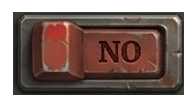
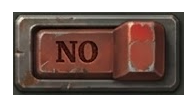
Intercambios REALES: las cartas se mueven, con deposito y caducidad v3.9
Correccion del diseno de compartir cartas (antes se daban copias):
- La carta que envias SALE de tu coleccion al generar el codigo y queda
  EN DEPOSITO (nuevo libro Save.cardMinus descuenta de availableCopies;
  addSharedCard cancela primero esa deuda). Al aceptar un intercambio,
  tu carta elegida sale y la del amigo entra; su codigo de respuesta te
  entrega la suya. Nadie puede robar: tu eliges que mandas y aceptas.
- CADUCIDAD 6 HORAS: los codigos vencidos se rechazan al leerlos; los
  intercambios en deposito vencidos se cancelan SOLOS y la carta vuelve
  (aviso en pantalla). Los regalos vencidos se recuperan a mano con
  confirmacion (aviso anti-duplicado si el amigo ya acepto).
- Panel "En deposito" en la pantalla de compartir: que cartas tuyas
  estan fuera y cuanto les queda para caducar.
- Solo se pueden enviar cartas con copias LIBRES (availableCopies > 0).
- Formato de codigo v2 (ENFCARTA2): los codigos antiguos ya no valen.

Android: versionCode 31 / versionName 3.9; etiqueta v3.9.

diff --git a/js/menu.js b/js/menu.js
@@ -27,7 +27,8 @@ const Save = {
   story: { defeated: [], revealed: [] }, // modo historia: enemigos vencidos / revelados
   /* ficha del paciente: historial de batallas y ELO interno */
   stats: { games: 0, wins: 0, losses: 0, streak: 0, bestStreak: 0, elo: 1000, log: [] },
-  tradeOut: [],                 // intercambios ofrecidos pendientes de respuesta
+  tradeOut: [],                 // envíos en depósito pendientes (regalos/intercambios)
+  cardMinus: {},                // cartas ENVIADAS a amigos: descuentan de tus copias
   settings: { sound: true, fastAI: false, showLog: true }
 };
 
@@ -196,6 +197,7 @@ function loadSave() {
       if (s.settings) Object.assign(Save.settings, s.settings);
       if (s.stats && typeof s.stats === 'object') Object.assign(Save.stats, s.stats);
       if (Array.isArray(s.tradeOut)) Save.tradeOut = s.tradeOut;
+      if (s.cardMinus && typeof s.cardMinus === 'object') Save.cardMinus = s.cardMinus;
 
       /* migración de guardados antiguos (mazo único o mazo por héroe) */
       if (!Array.isArray(s.customDecks)) {
@@ -288,10 +290,13 @@ function setOwnedCard(id) {
 }
 
 /* copias utilizables en mazos: las de los sets dan el máximo;
-   las de sobres, tantas como hayas conseguido (hasta el máximo) */
+   las de sobres, tantas como hayas conseguido (hasta el máximo).
+   Las cartas ENVIADAS a amigos (cardMinus) se descuentan. */
 function availableCopies(id) {
-  if (setOwnedCard(id)) return maxCopies(id);
-  return Math.min(maxCopies(id), (Save.cardCollection && Save.cardCollection[id]) || 0);
+  const base = setOwnedCard(id) ? maxCopies(id)
+    : Math.min(maxCopies(id), (Save.cardCollection && Save.cardCollection[id]) || 0);
+  const minus = (Save.cardMinus && Save.cardMinus[id]) || 0;
+  return Math.max(0, base - minus);
 }
 
 /* cartas coleccionables que posee el jugador (sets + sobres) */
@@ -308,18 +313,49 @@ function collectionIds() {
 }
 
 /* =========================================================
-   COMPARTIR CARTAS — por código (sin servidor, funciona en
-   web, APK y Electron: el código viaja por WhatsApp).
-   - REGALO: le mandas una carta; él la acepta o la rechaza.
-   - INTERCAMBIO: le ofreces una carta; para aceptarla debe
-     responder con una suya del MISMO VALOR (rareza) y te
-     manda el código de vuelta. Nadie pierde cartas: se
-     comparten COPIAS.
-   - Requisito para RECIBIR: tener desbloqueado el mazo de la
-     carta (vencido su paciente en la historia o comprado).
+   COMPARTIR CARTAS — por código (sin servidor: el código
+   viaja por WhatsApp; funciona en web, APK y Electron).
+   INTERCAMBIO DE VERDAD: la carta que envías SALE de tu
+   colección (queda «en depósito») y la de tu amigo entra.
+   Nadie te puede robar: tú eliges qué mandas y qué aceptas.
+   - REGALO: la carta sale de tu colección al generar el
+     código; tu amigo la acepta (o caduca y la recuperas).
+   - INTERCAMBIO: ofreces una carta (sale a depósito); tu
+     amigo acepta respondiendo con una suya del MISMO VALOR
+     (rareza) — la suya sale de su colección y la tuya entra
+     en la de él; con su código de respuesta recibes la suya.
+   - CADUCIDAD: los códigos valen 6 HORAS. Si nadie acepta a
+     tiempo, el envío se cancela y tu carta vuelve sola.
+   - Requisito para RECIBIR: mazo de la carta desbloqueado
+     (paciente vencido en la historia o set comprado).
    ========================================================= */
 
-const TRADE_TAG = 'ENFCARTA1.';
+const TRADE_TAG = 'ENFCARTA2.';
+const TRADE_EXPIRY_MS = 6 * 60 * 60 * 1000;   // 6 horas
+
+function tradeExpired(t) { return Date.now() - t > TRADE_EXPIRY_MS; }
+
+/* una carta SALE de tu colección (enviada a un amigo) */
+function removeCardCopy(id) {
+  const col = (Save.cardCollection && Save.cardCollection[id]) || 0;
+  if (col > 0) Save.cardCollection[id] = col - 1;
+  else {
+    Save.cardMinus = Save.cardMinus || {};
+    Save.cardMinus[id] = (Save.cardMinus[id] || 0) + 1;
+  }
+  persistSave();
+}
+
+/* caducidad: los INTERCAMBIOS vencidos se cancelan solos y la carta
+   vuelve; los REGALOS vencidos se recuperan a mano (con aviso) */
+function checkTradeExpiry() {
+  const vencidos = Save.tradeOut.filter(x => x.kind === 'offer' && tradeExpired(x.t));
+  if (!vencidos.length) return [];
+  Save.tradeOut = Save.tradeOut.filter(x => !vencidos.includes(x));
+  for (const v of vencidos) addSharedCard(v.c);
+  persistSave();
+  return vencidos.map(v => CARDS[v.c].name);
+}
 
 function tradeEncode(obj) {
   return TRADE_TAG + btoa(unescape(encodeURIComponent(JSON.stringify(obj))));
@@ -347,40 +383,77 @@ function canReceiveCard(id) {
 }
 
 function addSharedCard(id) {
-  Save.cardCollection[id] = (Save.cardCollection[id] || 0) + 1;
+  /* primero cancela deudas de envío; después suma copias */
+  const minus = (Save.cardMinus && Save.cardMinus[id]) || 0;
+  if (minus > 0) Save.cardMinus[id] = minus - 1;
+  else Save.cardCollection[id] = (Save.cardCollection[id] || 0) + 1;
   persistSave();
 }
 
-/* cartas propias que se pueden compartir (sin fichas) */
+/* cartas propias que se pueden ENVIAR: sin fichas y con copias libres */
 function tradeableIds() {
-  return collectionIds().filter(id => !CARDS[id].token);
+  return collectionIds().filter(id => !CARDS[id].token && availableCopies(id) > 0);
 }
 
 function renderTradeScreen() {
   const sel = document.getElementById('trade-card');
   if (!sel) return;
+  /* intercambios caducados: se cancelan y la carta vuelve sola */
+  const vueltas = checkTradeExpiry();
   sel.innerHTML = tradeableIds().map(id =>
     `<option value="${id}">${CARDS[id].name} · ${CARDS[id].rarity}</option>`).join('');
   document.getElementById('trade-out').value = '';
-  document.getElementById('trade-result').innerHTML = '';
   document.getElementById('trade-in').value = '';
+  const box = document.getElementById('trade-result');
+  box.innerHTML = vueltas.length
+    ? `<p class="lore" style="margin:8px 0">⏳ Intercambio caducado: <b>${vueltas.join('</b>, <b>')}</b> ha vuelto a tu colección.</p>`
+    : '';
+  renderTradePending();
+}
+
+/* envíos en depósito: qué cartas tuyas están fuera esperando respuesta */
+function renderTradePending() {
+  let pend = document.getElementById('trade-pending');
+  if (!pend) return;
+  if (!Save.tradeOut.length) { pend.innerHTML = ''; return; }
+  pend.innerHTML = '<h3>📦 En depósito</h3>' + Save.tradeOut.map((x, i) => {
+    const mins = Math.max(0, Math.round((x.t + TRADE_EXPIRY_MS - Date.now()) / 60000));
+    const caducado = tradeExpired(x.t);
+    const tipo = x.kind === 'gift' ? '🎁' : '🔁';
+    return `<div class="tp-row">${tipo} <b>${CARDS[x.c].name}</b> · ${caducado ? 'CADUCADO' : `caduca en ${Math.floor(mins / 60)}h ${mins % 60}m`}
+      ${x.kind === 'gift' && caducado ? `<button class="small-btn tp-recover" data-i="${i}">Recuperar</button>` : ''}</div>`;
+  }).join('');
+  pend.querySelectorAll('.tp-recover').forEach(b => b.addEventListener('click', () => {
+    const x = Save.tradeOut[+b.dataset.i];
+    if (!x) return;
+    if (!confirm(`¿Recuperar «${CARDS[x.c].name}»? OJO: si tu amigo ya aceptó el regalo, recuperarla sería duplicarla (y eso es trampa).`)) return;
+    Save.tradeOut = Save.tradeOut.filter(y => y !== x);
+    addSharedCard(x.c);
+    persistSave();
+    renderTradeScreen();
+  }));
 }
 
 function tradeGenerate() {
   const id = document.getElementById('trade-card').value;
   const kind = document.querySelector('input[name="trade-kind"]:checked').value;
   if (!id || !CARDS[id] || !Save.profile) return;
+  if (availableCopies(id) <= 0) return;
   const obj = {
     k: kind === 'offer' ? 'offer' : 'gift',
     c: id, r: CARDS[id].rarity,
     f: { i: Save.profile.id, n: Save.profile.name }, t: Date.now()
   };
-  if (obj.k === 'offer') {
-    Save.tradeOut.unshift({ c: id, t: obj.t });
-    if (Save.tradeOut.length > 10) Save.tradeOut.length = 10;
-    persistSave();
+  /* la carta SALE de tu colección y queda en depósito */
+  removeCardCopy(id);
+  Save.tradeOut.unshift({ c: id, t: obj.t, kind: obj.k });
+  if (Save.tradeOut.length > 10) {
+    const sobrante = Save.tradeOut.pop();
+    addSharedCard(sobrante.c);   // no se pierde: vuelve si se desborda la lista
   }
+  persistSave();
   document.getElementById('trade-out').value = tradeEncode(obj);
+  renderTradePending();
 }
 
 function tradeCopy() {
@@ -402,6 +475,7 @@ function tradeRead() {
   const de = obj.f ? ` de <b>${obj.f.n}</b> (${obj.f.i})` : '';
 
   if (obj.k === 'gift') {
+    if (tradeExpired(obj.t)) return note('⏳ Este regalo ha CADUCADO (los códigos valen 6 horas). Pídele otro.');
     const chk = canReceiveCard(obj.c);
     if (!chk.ok) return note('🔒 ' + chk.why);
     note(`🎁 Regalo${de}: <b>${card.name}</b> (${card.rarity}).`);
@@ -410,51 +484,57 @@ function tradeRead() {
     b1.onclick = () => { addSharedCard(obj.c); note(`🎉 <b>${card.name}</b> añadida a tu colección.`); Sfx.play('win'); };
     const b2 = document.createElement('button');
     b2.className = 'small-btn danger'; b2.textContent = '✖ Rechazar';
-    b2.onclick = () => note('Regalo rechazado. Nadie pierde nada.');
+    b2.onclick = () => note('Regalo rechazado: cuando caduque, la carta volverá a tu amigo.');
     box.append(b1, b2);
     return;
   }
 
   if (obj.k === 'offer') {
+    if (tradeExpired(obj.t)) return note('⏳ Esta oferta ha CADUCADO (los códigos valen 6 horas): el intercambio queda cancelado y su carta vuelve a tu amigo.');
     const chk = canReceiveCard(obj.c);
     if (!chk.ok) return note('🔒 ' + chk.why);
     const mias = tradeableIds().filter(id => CARDS[id].rarity === obj.r && id !== obj.c);
-    if (!mias.length) return note(`⚖️ Te ofrecen <b>${card.name}</b> (${card.rarity}), pero no tienes ninguna carta de ese valor para intercambiar.`);
-    note(`🔁 Intercambio${de}: te ofrece <b>${card.name}</b> (${card.rarity}). Elige una carta tuya del MISMO valor para responder:`);
+    if (!mias.length) return note(`⚖️ Te ofrecen <b>${card.name}</b> (${card.rarity}), pero no tienes ninguna carta libre de ese valor para intercambiar.`);
+    note(`🔁 Intercambio${de}: te ofrece <b>${card.name}</b> (${card.rarity}). Elige la carta tuya del MISMO valor que le darás a cambio (SALDRÁ de tu colección):`);
     const sel = document.createElement('select');
     sel.innerHTML = mias.map(id => `<option value="${id}">${CARDS[id].name} · ${CARDS[id].rarity}</option>`).join('');
     const b1 = document.createElement('button');
     b1.className = 'small-btn'; b1.textContent = '✅ Aceptar e intercambiar';
     b1.onclick = () => {
-      addSharedCard(obj.c);
-      const ans = { k: 'ans', c: sel.value, o: obj.c, r: obj.r, f: { i: Save.profile.id, n: Save.profile.name }, t: Date.now() };
+      const mia = sel.value;
+      if (availableCopies(mia) <= 0) return note('❌ Ya no tienes copias libres de esa carta.');
+      removeCardCopy(mia);          // tu carta SALE hacia tu amigo
+      addSharedCard(obj.c);         // la suya ENTRA en tu colección
+      const ans = { k: 'ans', c: mia, o: obj.c, r: obj.r, f: { i: Save.profile.id, n: Save.profile.name }, t: Date.now() };
       document.getElementById('trade-out').value = tradeEncode(ans);
-      note(`🎉 <b>${card.name}</b> es tuya. Envíale el código de respuesta (arriba en «Crear envío») para que reciba tu <b>${CARDS[sel.value].name}</b>.`);
+      note(`🎉 <b>${card.name}</b> es tuya y tu <b>${CARDS[mia].name}</b> ha salido hacia tu amigo. Envíale el código de respuesta (arriba) para que la reciba.`);
       Sfx.play('win');
+      renderTradePending();
     };
     const b2 = document.createElement('button');
     b2.className = 'small-btn danger'; b2.textContent = '✖ Rechazar';
-    b2.onclick = () => note('Intercambio rechazado. Nadie pierde nada.');
+    b2.onclick = () => note('Intercambio rechazado: cuando caduque, la carta volverá a tu amigo.');
     box.append(sel, b1, b2);
     return;
   }
 
-  /* respuesta a un intercambio que TÚ ofreciste */
+  /* respuesta a un intercambio que TÚ ofreciste: recibes su carta */
   if (obj.k === 'ans') {
-    const mine = Save.tradeOut.find(x => x.c === obj.o);
-    if (!mine) return note('🤔 Esa respuesta no corresponde a ningún intercambio tuyo pendiente.');
+    const mine = Save.tradeOut.find(x => x.c === obj.o && x.kind === 'offer');
+    if (!mine) return note('🤔 Esa respuesta no corresponde a ningún intercambio tuyo pendiente (¿caducó y tu carta ya volvió?).');
     if (CARDS[obj.c].rarity !== CARDS[obj.o].rarity) return note('⚖️ Ese intercambio no es del mismo valor. Código rechazado.');
     const chk = canReceiveCard(obj.c);
     if (!chk.ok) return note('🔒 ' + chk.why);
-    note(`🔁 ${obj.f ? `<b>${obj.f.n}</b>` : 'Tu amigo'} ha aceptado tu intercambio y te envía <b>${card.name}</b> (${card.rarity}).`);
+    note(`🔁 ${obj.f ? `<b>${obj.f.n}</b>` : 'Tu amigo'} ha aceptado: tu <b>${CARDS[obj.o].name}</b> ya es suya y te envía <b>${card.name}</b> (${card.rarity}).`);
     const b1 = document.createElement('button');
     b1.className = 'small-btn'; b1.textContent = '✅ Completar intercambio';
     b1.onclick = () => {
-      addSharedCard(obj.c);
-      Save.tradeOut = Save.tradeOut.filter(x => x !== mine);
+      addSharedCard(obj.c);                                // su carta entra
+      Save.tradeOut = Save.tradeOut.filter(x => x !== mine); // la tuya ya no vuelve
       persistSave();
       note(`🎉 <b>${card.name}</b> añadida a tu colección. Intercambio completado.`);
       Sfx.play('win');
+      renderTradePending();
     };
     box.append(b1);
   }

diff --git a/css/style.css b/css/style.css
@@ -1642,6 +1642,16 @@ html, #game, #game * { cursor: url('../assets/mouse_cursor.png') 10 4, auto; }
 .trade-mode label { cursor: pointer; }
 #trade-result { display: flex; flex-direction: column; gap: 8px; }
 #trade-result .lore { font-size: 14.5px; }
+/* envíos en depósito (esperando que el amigo acepte) */
+#trade-pending { text-align: left; margin-top: 4px; }
+#trade-pending h3 { color: var(--gold); font-size: 16px; margin: 6px 0 4px; }
+.tp-row {
+  display: flex; align-items: center; gap: 10px;
+  padding: 5px 8px;
+  font-size: 14px;
+  border-bottom: 1px solid rgba(120, 150, 140, .18);
+}
+.tp-row .small-btn { padding: 4px 12px; font-size: 12px; margin-left: auto; }
 
 /* ---------------- FICHA DEL PACIENTE (perfil) ---------------- */
 

diff --git a/index.html b/index.html
@@ -110,7 +110,7 @@
         <div class="coins-badge">💊 <span id="menu-coins">0</span> pastillas</div>
         <div id="menu-profile" class="profile-badge"></div>
       </div>
-      <div class="version-tag">v3.8</div>
+      <div class="version-tag">v3.9</div>
     </div>
   </div>
 
@@ -221,7 +221,7 @@
   <div id="trade-screen" class="overlay hidden">
     <div class="menu-box">
       <h2 class="logo" style="font-size:38px">🎁 COMPARTIR CARTAS</h2>
-      <p class="lore">Envía cartas a un amigo con un <b>código</b> (pásaselo por WhatsApp). Nadie pierde cartas: se comparten <b>copias</b>. Para <b>recibir</b> una carta hay que tener su mazo desbloqueado, y los <b>intercambios</b> deben ser de cartas del mismo valor.</p>
+      <p class="lore">Envía cartas a un amigo con un <b>código</b> (pásaselo por WhatsApp). La carta que envías <b>sale de tu colección</b> y recibes la que te dé tu amigo: tú eliges qué mandas y qué aceptas, nadie te puede robar. Los códigos <b>caducan en 6 horas</b>: si nadie acepta, el envío se cancela y tu carta vuelve. Para <b>recibir</b> hay que tener el mazo de la carta desbloqueado; los <b>intercambios</b>, siempre del mismo valor.</p>
       <div class="trade-cols">
         <div class="trade-box">
           <h3>📤 Crear envío</h3>
@@ -241,6 +241,7 @@
           <div id="trade-result"></div>
         </div>
       </div>
+      <div id="trade-pending"></div>
       <div class="menu-buttons">
         <button class="img-btn" data-back>← Volver</button>
       </div>